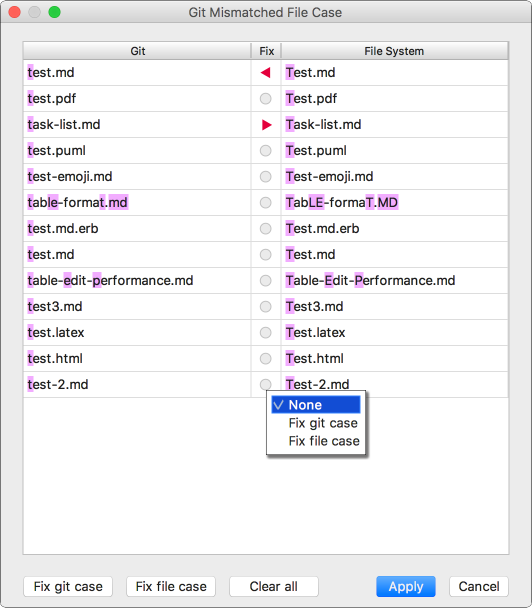
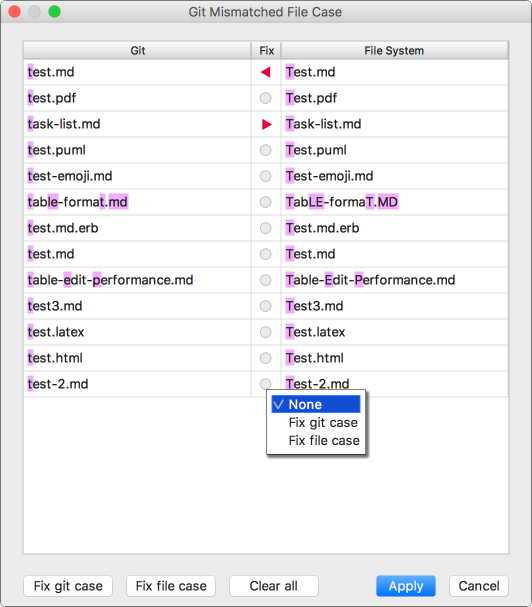
update plugin description

diff --git a/resources/META-INF/plugin-description.html b/resources/META-INF/plugin-description.html
@@ -6,4 +6,5 @@ with corrective actions:</p>
   <li>Change git file case to match file system</li>
   <li>Change file system case to match git</li>
 </ul>
+<p><img src="https://github.com/vsch/git-file-case-fixer/raw/master/assets/images/ScreenShot_ShowMismatchesDialog.png" alt="ScreenShot_ShowMismatchesDialog.png" /></p>
 

diff --git a/resources/META-INF/VERSION.md b/resources/META-INF/VERSION.md
@@ -1,17 +1,16 @@
-### Version History
+# Version History
 
 [TOC]: # " "
 
-- [Version History](#version-history)
-- [0.1.0](#010)
+- [1.0.0 _ abc](#100---abc)
 - [0.0.0](#000)
 
-
-### 0.1.0
+## 1.0.0 _ abc
 
 * Initial release
 
-### 0.0.0
+## 0.0.0
 
 * first commit
 
+![ScreenShot_CommitDialog.png](../../assets/images/ScreenShot_CommitDialog.png)

diff --git a/resources/META-INF/plugin-description.md b/resources/META-INF/plugin-description.md
@@ -8,3 +8,5 @@ with corrective actions:
 
 * Change git file case to match file system
 * Change file system case to match git
+
+![ScreenShot_ShowMismatchesDialog.png](https://github.com/vsch/git-file-case-fixer/raw/master/assets/images/ScreenShot_ShowMismatchesDialog.png)
